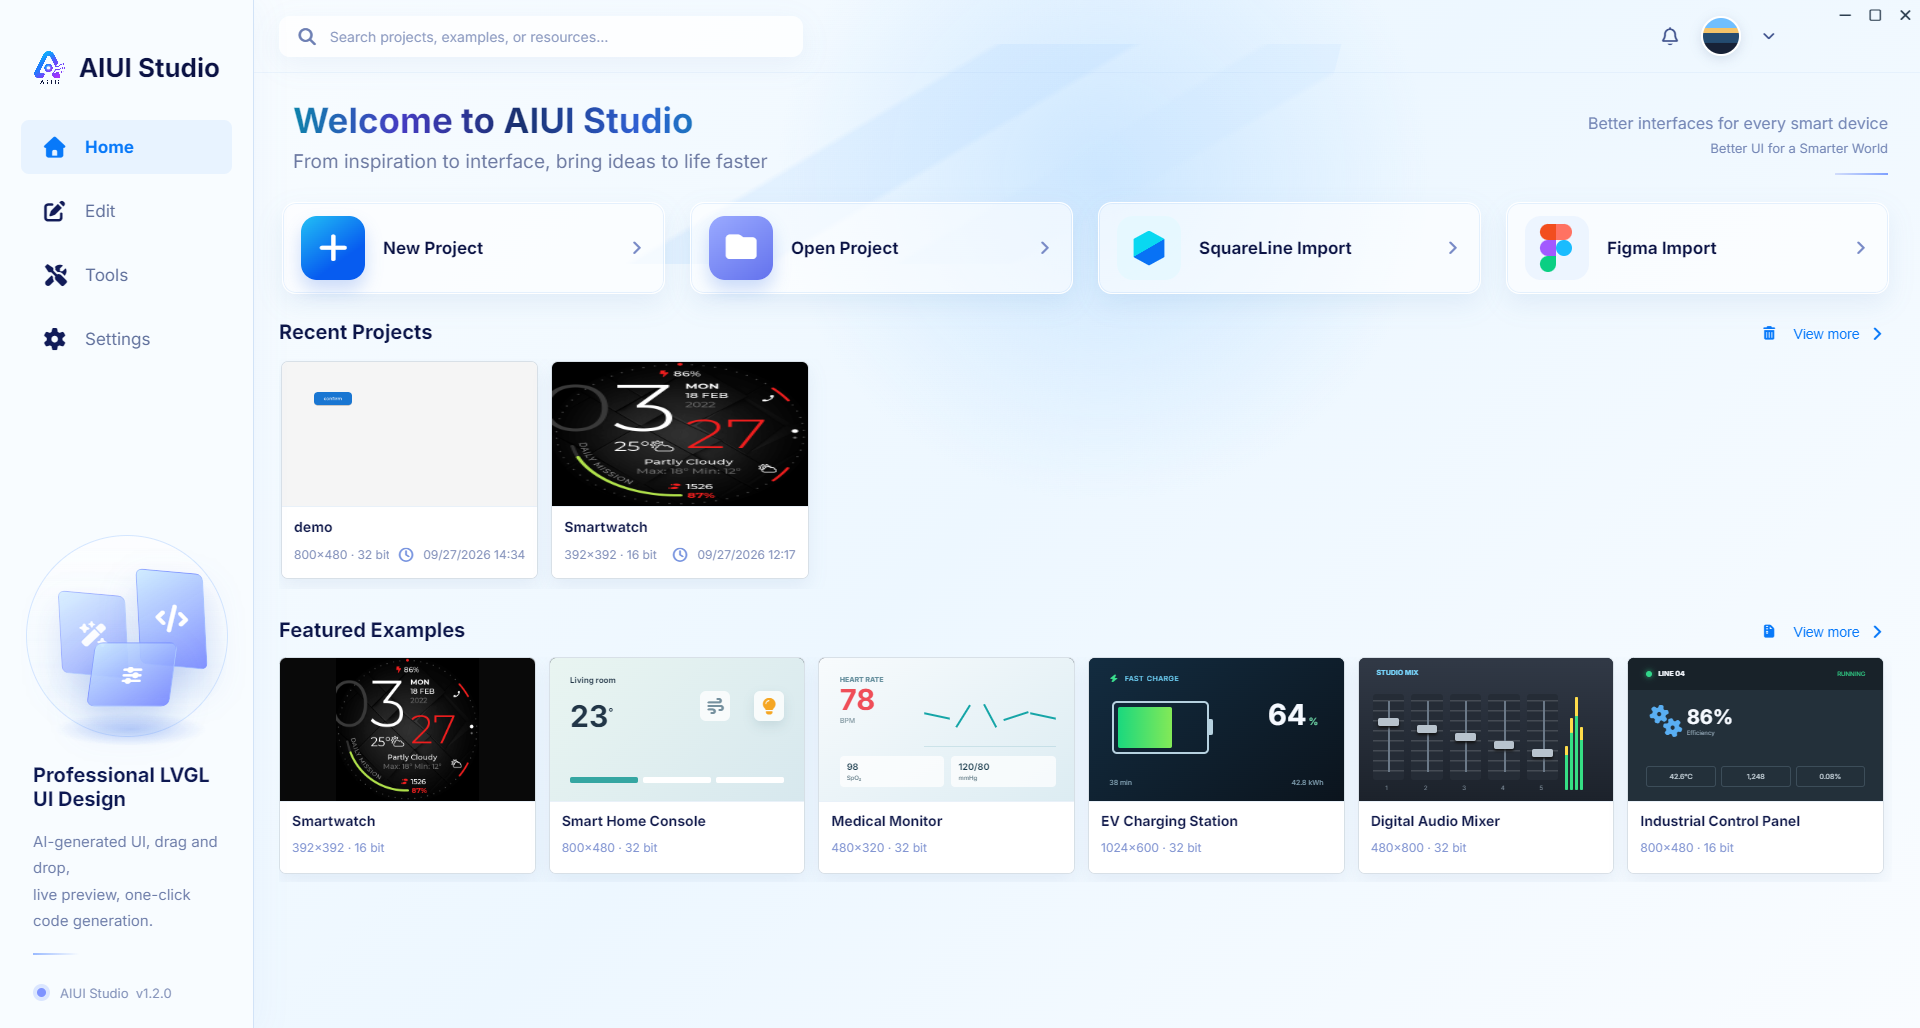
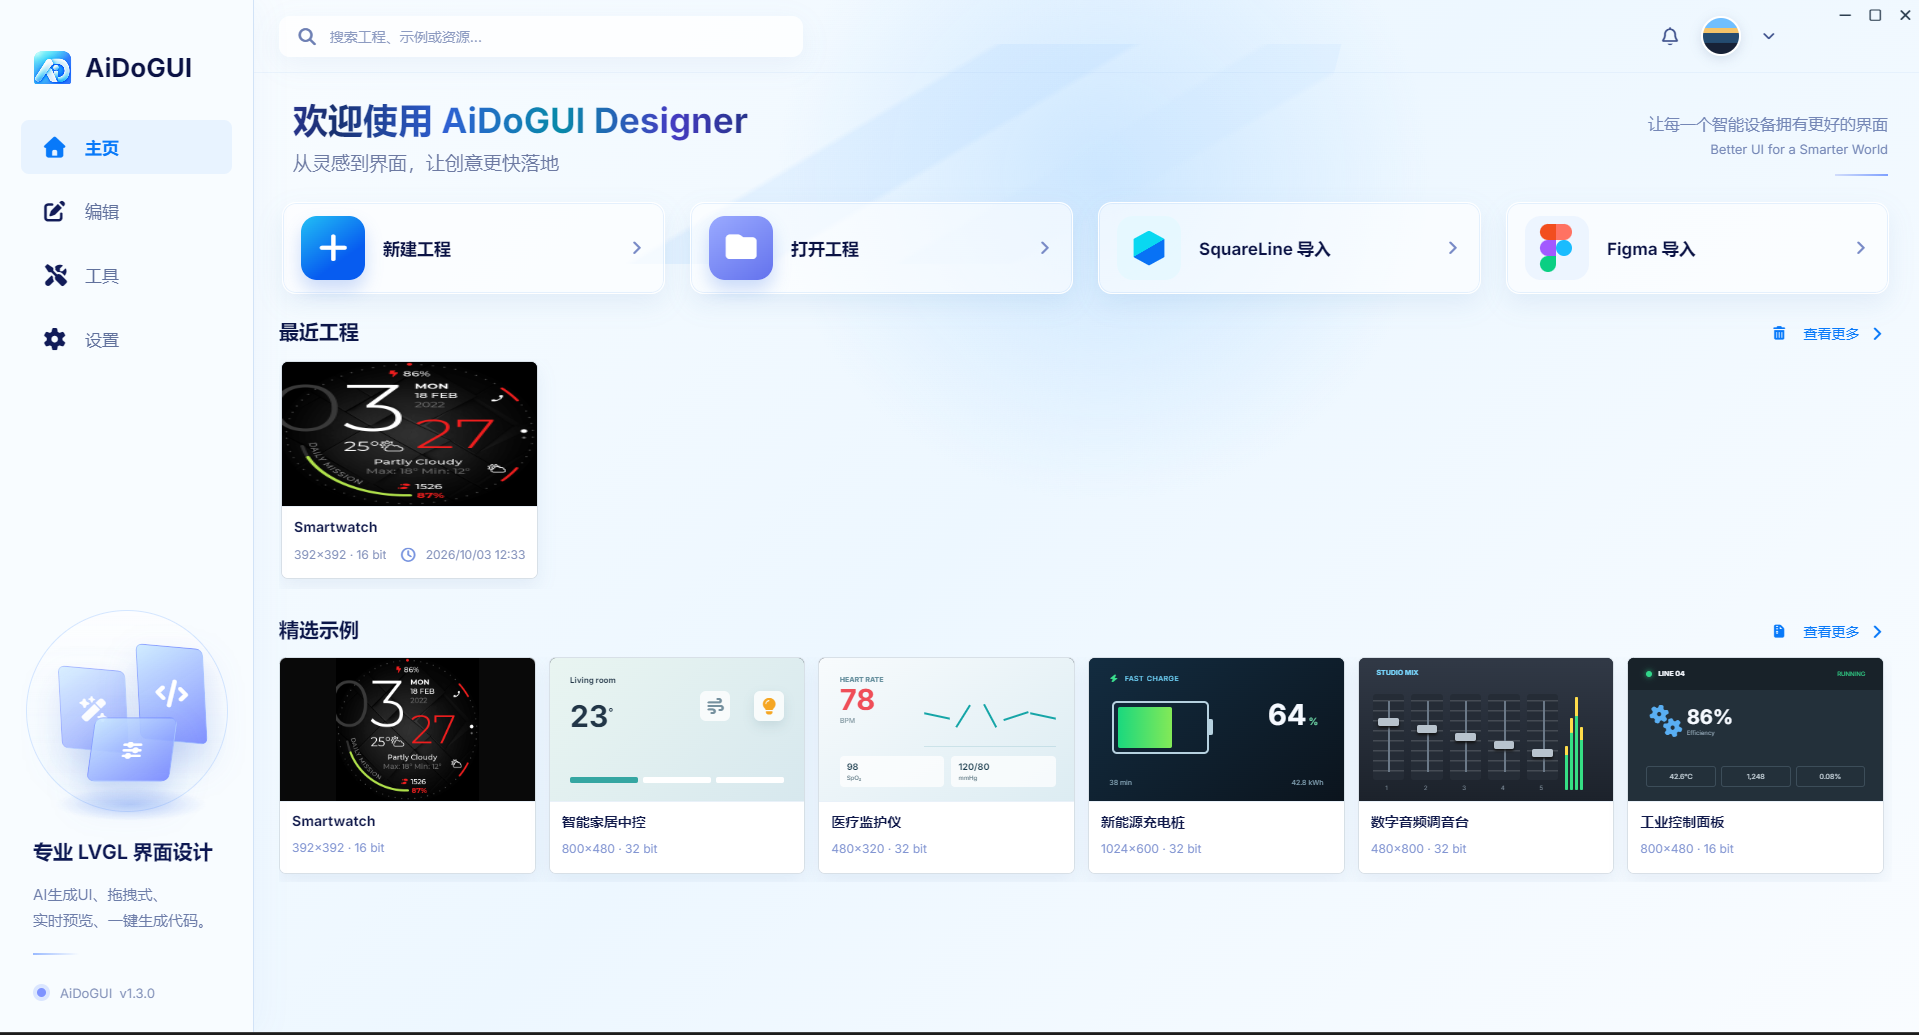
更新

diff --git a/README.md b/README.md
@@ -19,7 +19,7 @@ AiDoGUI Designer 是一款面向嵌入式设备的 LVGL 界面设计工具，让
 
 无论您是资深 LVGL 工程师，还是初次接触嵌入式界面的设计师，AiDoGUI Designer 都能帮您把想法快速变成真实可用的屏幕界面。
 
-![image-20260927140953897](./assets/image-20260927140953897.png)
+![image-20260927140953897](./assets/image-20260927173529535.png)
 
 ## 🎯 2.为什么选择 AiDoGUI Designer
 
@@ -41,7 +41,7 @@ AiDoGUI Designer 是一款面向嵌入式设备的 LVGL 界面设计工具，让
 
 - **跨平台支持** —— 支持Windows、MACOS 、Linux，Windows最低支持Win7 64位，如今很多lvgl编辑均不支持win7旧系统，但我们还支持
 
-  ![AIUISTUDIO核心功能](./assets/aiuistudio-cn.jpg)
+  ![AIUISTUDIO核心功能](./assets/gongnengtu-cn.jpg)
 
 ## ✨ 3.核心功能
 

diff --git a/README_EN.md b/README_EN.md
@@ -41,7 +41,7 @@ Whether you are an experienced LVGL engineer or a designer new to embedded inter
 
 - **Cross-Platform Support** — Supports Windows, macOS, and Linux; minimum Windows support is Win7 64-bit. Many LVGL editors today no longer support the old Win7 system, but we still do.
 
-![AIUIStudio](./assets/aiuistudio-en.jpg)
+![AIUIStudio](./assets/gongnengtu-en.jpg)
 
 ## ✨ 3. Core Features
 
